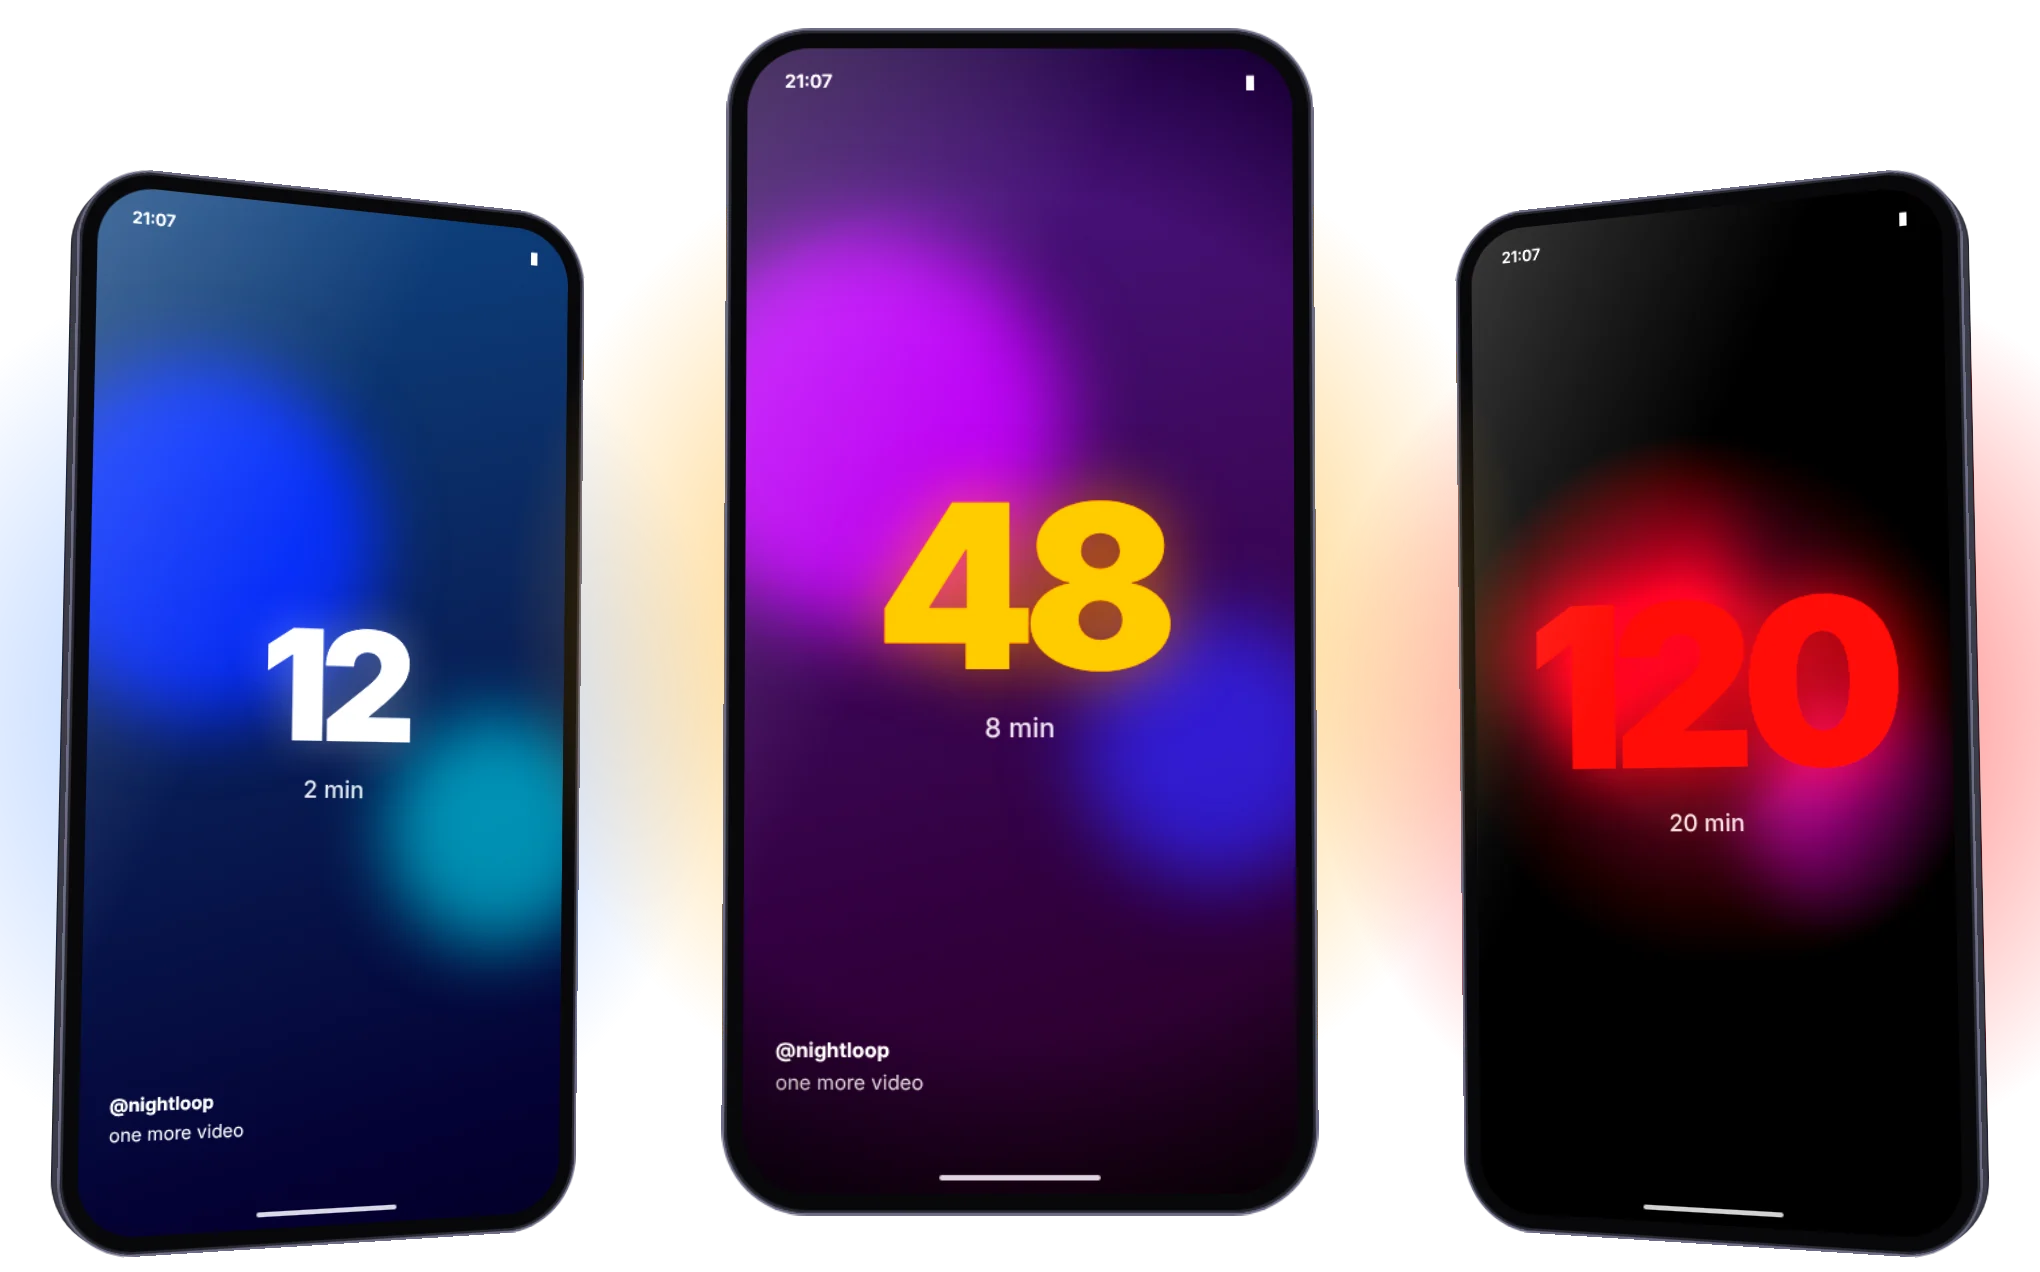
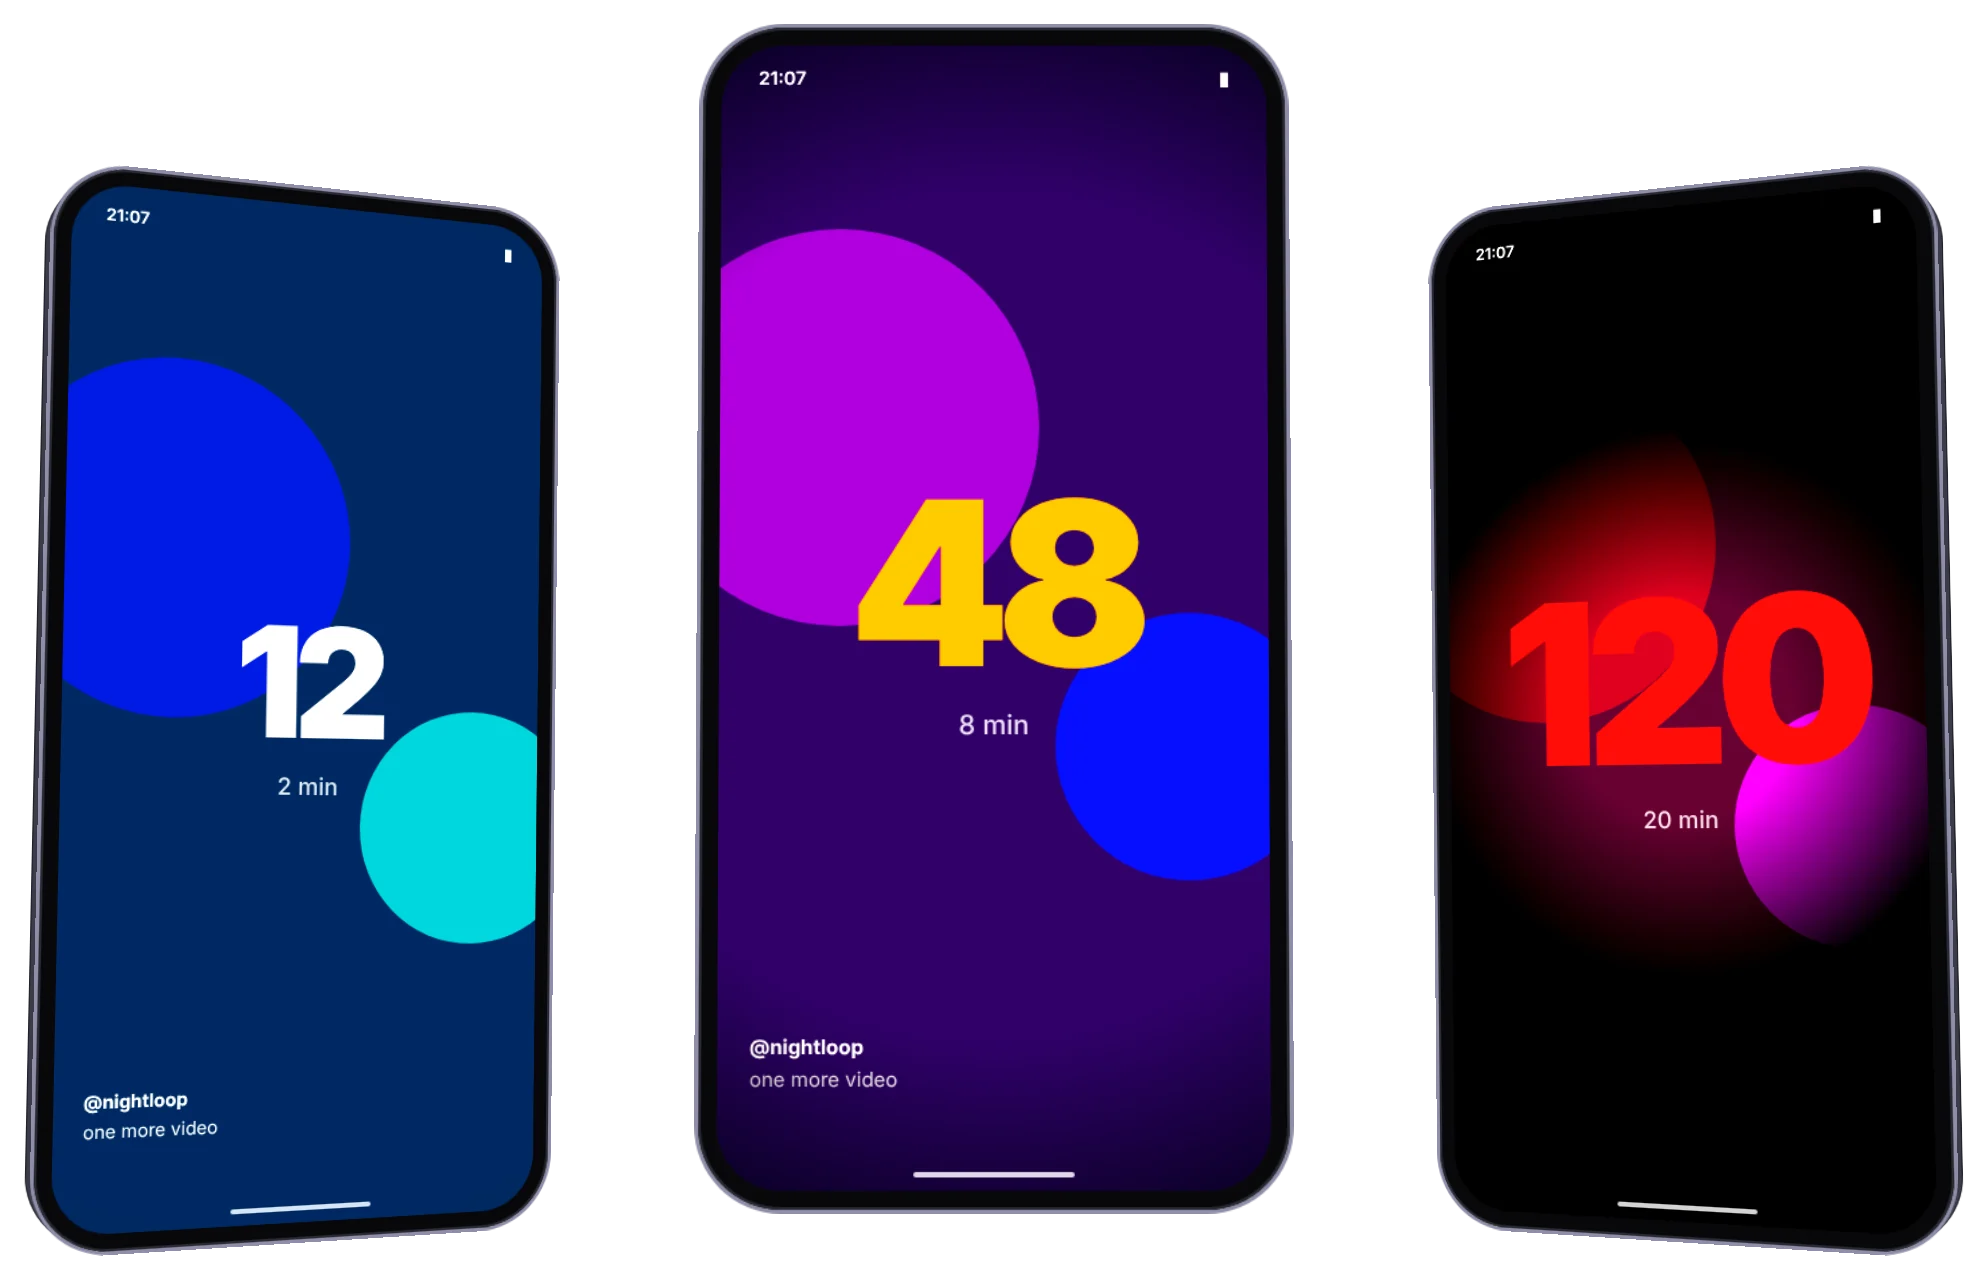
Remove decorative gradients and glows, flat graphics, tighter mobile layout
Claude-Session: https://claude.ai/code/session_01QRYSTdjr5vyv9CKVNuxw1m

diff --git a/styles.css b/styles.css
@@ -119,12 +119,12 @@ h1 {
 .feed { position: absolute; inset: 0; }
 .slide {
   position: absolute; inset: 0; overflow: hidden;
-  background: linear-gradient(165deg, hsl(var(--h) 42% 24%), hsl(calc(var(--h) + 40) 46% 9%));
+  background: hsl(var(--h) 55% 20%);
   transition: transform .34s cubic-bezier(.2, .7, .2, 1);
 }
-.slide::before, .slide::after { content: ""; position: absolute; border-radius: 50%; filter: blur(22px); }
-.slide::before { width: 70%; aspect-ratio: 1; left: var(--x1); top: 14%; background: hsl(calc(var(--h) + 20) 70% 46% / .55); }
-.slide::after { width: 46%; aspect-ratio: 1; right: var(--x2); top: 44%; background: hsl(calc(var(--h) - 30) 80% 56% / .4); }
+.slide::before, .slide::after { content: ""; position: absolute; border-radius: 50%; }
+.slide::before { width: 70%; aspect-ratio: 1; left: var(--x1); top: 14%; background: hsl(calc(var(--h) + 20) 70% 34%); }
+.slide::after { width: 46%; aspect-ratio: 1; right: var(--x2); top: 44%; background: hsl(calc(var(--h) - 30) 70% 40%); }
 .slide.from-below { transform: translateY(100%); }
 .slide.from-above { transform: translateY(-100%); }
 .slide .cap { position: absolute; left: 5cqw; right: 22cqw; bottom: 9cqw; z-index: 1; }
@@ -148,7 +148,6 @@ h1 {
 .num {
   position: relative; font-weight: 900; letter-spacing: -.06em; line-height: .9; font-variant-numeric: tabular-nums;
   font-size: calc(var(--nz, 31) * 1cqw); color: var(--c, #fffffa);
-  text-shadow: 0 0 calc(var(--nz, 31) * .32cqw) var(--glow, rgba(255, 255, 250, .28));
   transition: color .3s ease;
 }
 .mins { position: relative; margin-top: 2.4cqw; font-size: 6.4cqw; font-weight: 500; color: rgba(255, 255, 250, .72); }
@@ -207,7 +206,7 @@ h1 {
 .seg button[aria-pressed="true"] { background: var(--ink); color: #17161a; }
 .slider { margin-top: 20px; max-width: 22rem; }
 .slider label { display: block; margin-bottom: 10px; font-weight: 600; }
-.slider input { width: 100%; height: 10px; margin: 0; border-radius: 5px; appearance: none; -webkit-appearance: none; background: linear-gradient(90deg, #fffffa, var(--amber) 50%, var(--red)); }
+.slider input { width: 100%; height: 10px; margin: 0; border-radius: 5px; appearance: none; -webkit-appearance: none; --p: 50%; background: linear-gradient(var(--red), var(--red)) 0 / var(--p) 100% no-repeat, var(--raised); }
 .slider input::-webkit-slider-thumb { appearance: none; -webkit-appearance: none; width: 28px; height: 28px; border-radius: 50%; background: var(--ink); border: 3px solid var(--panel); box-shadow: 0 2px 8px rgba(0, 0, 0, .5); cursor: pointer; }
 .slider input::-moz-range-thumb { width: 22px; height: 22px; border-radius: 50%; background: var(--ink); border: 3px solid var(--panel); box-shadow: 0 2px 8px rgba(0, 0, 0, .5); cursor: pointer; }
 .slider .ends { display: flex; justify-content: space-between; margin-top: 8px; font-size: .85rem; color: var(--muted); }
@@ -233,7 +232,7 @@ h1 {
 .w-label { font-size: .82rem; font-weight: 600; color: rgba(255, 255, 250, .6); }
 .w-square .w-label { position: absolute; top: 18px; left: 16px; }
 .w-num { display: block; font-weight: 900; letter-spacing: -.06em; line-height: .9; color: var(--red); font-variant-numeric: tabular-nums; transition: color .25s ease; }
-.w-square .w-num { position: absolute; left: 16px; bottom: 36px; font-size: 3.4rem; text-shadow: 0 0 14px rgba(255, 49, 46, .14); }
+.w-square .w-num { position: absolute; left: 16px; bottom: 36px; font-size: 3.4rem; }
 .w-cap { position: absolute; left: 16px; bottom: 14px; font-size: .78rem; color: rgba(255, 255, 250, .6); }
 .w-small { grid-column: 2; align-self: center; width: 160px; height: 72px; border-radius: 24px; display: flex; align-items: center; justify-content: space-between; padding: 0 14px; }
 .w-small .w-right { display: grid; justify-items: end; gap: 3px; }
@@ -278,7 +277,7 @@ h1 {
 /* nav and gallery sections */
 .top .bar { gap: 20px; flex-wrap: wrap; }
 .nav-links { display: flex; gap: 6px; margin-left: auto; margin-right: 8px; }
-.nav-links a { padding: 8px 14px; border-radius: 999px; font-size: .95rem; font-weight: 500; color: var(--muted); text-decoration: none; white-space: nowrap; }
+.nav-links a { padding: 8px 12px; border-radius: 999px; font-size: .95rem; font-weight: 500; color: var(--muted); text-decoration: none; white-space: nowrap; }
 .nav-links a:hover { color: var(--ink); }
 .nav-links a.current { color: var(--ink); background: rgba(255, 255, 250, .1); }
 .foot-links { display: flex; flex-wrap: wrap; gap: 6px 18px; margin-bottom: 14px; }
@@ -297,3 +296,9 @@ h1 {
   .gal-txt { grid-template-columns: minmax(0, 1fr); }
   .gal-txt h2 { grid-row: auto; }
 }
+@media (max-width: 480px) {
+  .nav-links { justify-content: space-between; margin: 0 -8px; }
+  .nav-links a { padding: 8px 9px; font-size: .88rem; }
+  .gal img { margin-left: -4px; width: calc(100% + 8px); max-width: none; }
+}
+.gal img, .w3d img { margin-top: clamp(16px, 3vw, 40px); }

diff --git a/index.html b/index.html
@@ -126,7 +126,7 @@
         <p>Tally shows the total over the apps you pick. It starts small and white, grows, turns amber, then red, and sends out a ring every 50th swipe. It is semi-transparent, and touches go through to the app underneath.</p>
         <p>The default shows swipes with the minutes small under them. You can switch to swipes only, or to time only. Time counts only while one of your apps is in front, and after a short break the count starts again. The exact steps and timing may change before release.</p>
       </div>
-      <img src="images/number.webp" alt="Three phones showing the Tally number at 12, 48 and 120 swipes, growing and changing from white to amber to red" width="1700" height="1060" loading="lazy">
+      <img src="images/number.webp" alt="Three phones showing the Tally number at 12, 48 and 120 swipes, growing and changing from white to amber to red" width="1988" height="1269" loading="lazy">
       <p class="cap">12, 48 and 120 swipes.</p>
     </section>
 
@@ -136,7 +136,7 @@
         <p>Edges go dark first. At the end only a small clear patch is left, about a quarter of the screen across. The veil is black, and the number is drawn above it, so the count stays easy to read.</p>
         <p>It does not block touches. They pass through to the app underneath, so there is no trap and no button to find. It draws only over the apps you picked, and it never touches system screens or calls.</p>
       </div>
-      <img src="images/veil.webp" alt="Three phones showing the veil at 20, 60 and 150 swipes, closing in from the edges" width="1700" height="1060" loading="lazy">
+      <img src="images/veil.webp" alt="Three phones showing the veil at 20, 60 and 150 swipes, closing in from the edges" width="1748" height="1316" loading="lazy">
       <p class="cap">20, 60 and 150 swipes.</p>
     </section>
 
@@ -161,7 +161,7 @@
         </div>
       </div>
       <div class="wrap w3d">
-        <img src="images/widgets-eye.webp" alt="The eye widget in square and small sizes, on and off, floating in 3D" width="1500" height="900" loading="lazy"><img src="images/widgets-time.webp" alt="The time widget showing 47 minutes and a line about a 30-minute walk" width="1500" height="800" loading="lazy">
+        <img src="images/widgets-eye.webp" alt="The eye widget in square and small sizes, on and off, floating in 3D" width="1174" height="594" loading="lazy"><img src="images/widgets-time.webp" alt="The time widget showing 47 minutes and a line about a 30-minute walk" width="916" height="399" loading="lazy">
         <p class="cap">The eye widget (top) and the time widget (right). Under 10 minutes the time widget shows no extra line. The daily total resets at midnight on your phone's clock, with no history. The widgets are part of the prototype and may change.</p>
       </div>
     </section>
@@ -172,7 +172,7 @@
         <p>Tally finds common social apps and turns them on for you. Turn on any other installed app, and turn off any you do not want counted. Browsers are off by default. If you turn one on, the whole browser counts, because Tally does not look at which site you are on.</p>
         <p>To count swipes in other apps, Tally uses Android's accessibility service, and it draws the number over them. Android asks you to turn this on yourself. Tally reads no text, messages or posts. It counts scroll events and the time an app is in front.</p>
       </div>
-      <img src="images/apps.webp" alt="Tally home screen and two Settings screens: overlay style, intensity, veil speed, obstruction max, grace swipes and watched apps" width="1700" height="1100" loading="lazy">
+      <img src="images/apps.webp" alt="Tally home screen and two Settings screens: overlay style, intensity, veil speed, obstruction max, grace swipes and watched apps" width="1945" height="1259" loading="lazy">
       <p class="cap">Home, and Settings. Drawn from the app design, not photos of a phone.</p>
     </section>
 

diff --git a/demo.js b/demo.js
@@ -139,7 +139,10 @@ document.querySelectorAll("[data-mode]").forEach((btn) => {
     render();
   });
 });
-$("speed").addEventListener("input", (ev) => { state.speed = Number(ev.target.value); render(); });
+const speedEl = $("speed");
+const fillSpeed = () => speedEl.style.setProperty("--p", `${((speedEl.value - 1) / 4) * 100}%`);
+speedEl.addEventListener("input", () => { state.speed = Number(speedEl.value); fillSpeed(); render(); });
+fillSpeed();
 const graceVal = $("grace-val");
 function setGrace(v) {
   state.grace = Math.max(0, Math.min(20, v));
